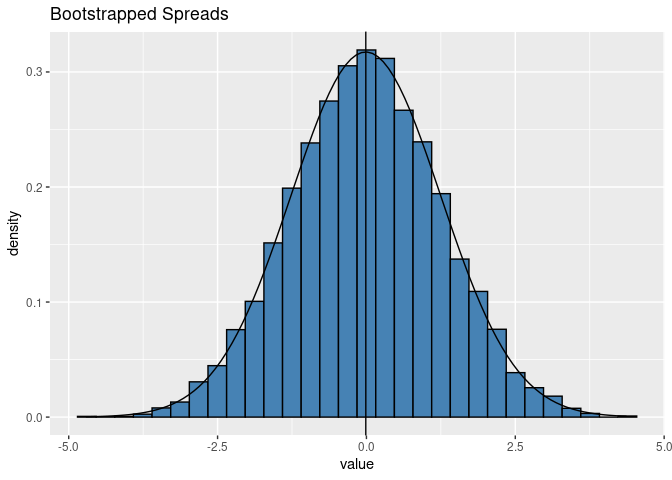
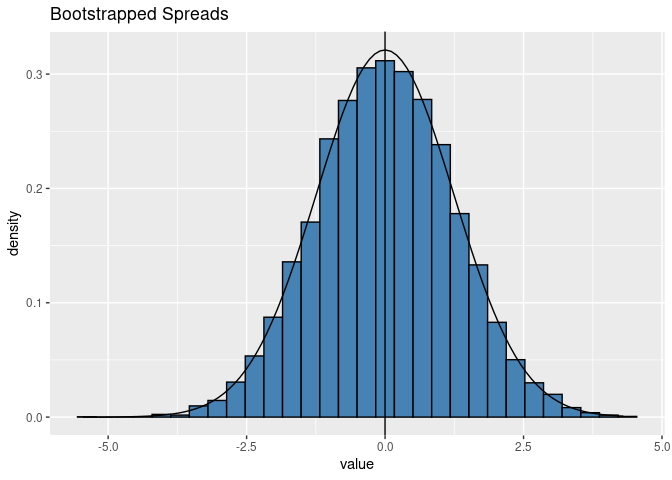
Welp no graphs

diff --git a/Analysis/03_candidate_probabilities.md b/Analysis/03_candidate_probabilities.md
@@ -20,13 +20,13 @@ boot_spread <- melt(boot_spread)
 boot_spread %>% head()
 ```
 
-    ##        value
-    ## 1  0.4177778
-    ## 2 -0.1344444
-    ## 3 -1.8222222
-    ## 4  2.8333333
-    ## 5  3.1000000
-    ## 6  0.4444444
+    ##         value
+    ## 1  0.05777778
+    ## 2 -0.87111111
+    ## 3  0.66666667
+    ## 4 -0.79000000
+    ## 5 -0.83333333
+    ## 6  0.17777778
 
 ``` r
 ggplot(boot_data, aes(actual_spread)) +
